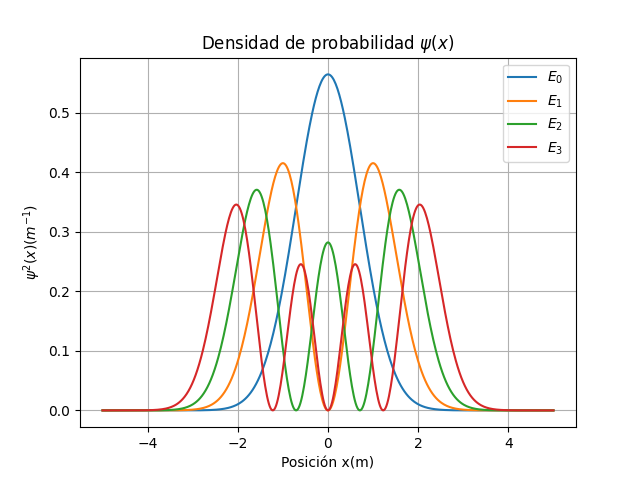
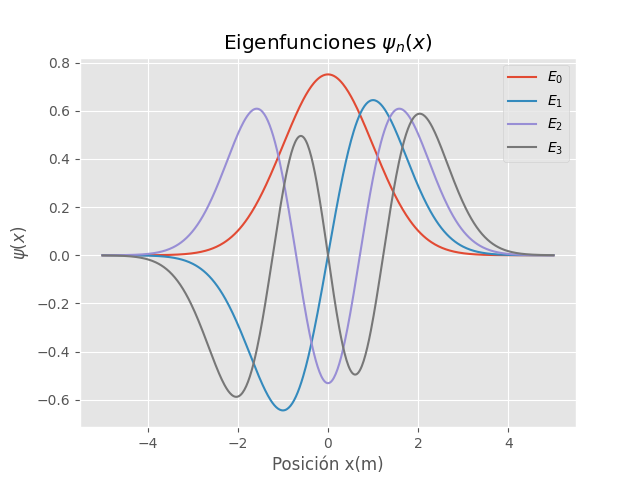
Codigo de circuitos

diff --git a/Cuantica/script.py b/Cuantica/script.py
@@ -3,18 +3,21 @@ import matplotlib.pyplot as plt
 from scipy.special import hermite
 import math
 
-res = 100
-x = np.linspace(-1,1,res)
-mw2 = 16.5
-print("Graficando la funcion potencial")
-plt.grid()
-plt.xlabel("Posición x(m)")
-plt.ylabel("Potencial V(J)")
-plt.plot(x,mw2*x**2)
-plt.show()
+plt.style.use("ggplot")
 
 m = 1
 w = 1
+
+res = 100
+x = np.linspace(-5,5,res)
+print("Graficando la funcion potencial")
+#plt.grid()
+plt.xlabel("Posición x(m)")
+plt.ylabel("Potencial V(J)")
+plt.plot(x,x**2)
+plt.savefig("potencial.png")
+plt.show()
+
 
 sqpi = math.sqrt(np.pi)
 
@@ -38,10 +41,11 @@ harms = [HarmonicOscilatorObj(n) for n in range(0,5)]
 min_r = 0
 max_r = 4
 
-plt.grid()
+#plt.grid()
 plt.title(r"Eigenfunciones $\psi_n(x)$")
 plt.xlabel(r'Posición x(m)')
 plt.ylabel(r'$\psi(x)$')
+#plt.plot(x,m*w*x**2,alpha=0.1,label="V(x)")
 for i in range(min_r,max_r):
     psi_n = harms[i](eps)
     plt.plot(x,psi_n,label=r"$E_{}$".format(i))
@@ -61,7 +65,7 @@ for i in range(min_r,max_r):
     plt.plot(x,psi_n**2,label=r"$E_{}$".format(i))
 
 plt.legend()
-plt.savefig("figura_completa.png")
+plt.savefig("densidad.png")
 plt.show()
 
 
@@ -72,5 +76,6 @@ for i in range(min_r,max_r):
     plt.plot(x,psi_n)
     plt.xlabel(r"Posición x(m)")
     plt.ylabel(r"$\psi(x)$")
+    plt.savefig("wf_{}.png".format(i))
     plt.show()
 

diff --git a/HTOM/script.py b/HTOM/script.py
@@ -2,18 +2,18 @@ import numpy as np
 import matplotlib.pyplot as plt
 from scipy.special import sph_harm_y,assoc_laguerre
 
-r_res = 1000
+r_res = 100
 th_res = 100
-ph_res = 1000
+ph_res = 100
 r = np.linspace(0,100,r_res)
 phi = np.linspace(0,2*np.pi,ph_res,endpoint=False)
 theta = np.linspace(0,np.pi,th_res)
 
 R,Phi,Theta = np.meshgrid(r,phi,theta)
 #Para estados de energia
-n = 5
-l = 2
-m = 1
+n = 2
+l = 1
+m = -1
 #Parametros del atomo
 Z = 1
 m_e = 1
@@ -39,7 +39,7 @@ max_psi = np.max(psi_n)
 
 
 acc_points = []
-num_points = 10000
+num_points = 1000
 gen_points = 0
 while gen_points<num_points:
     i = np.random.randint(0,r_res)
